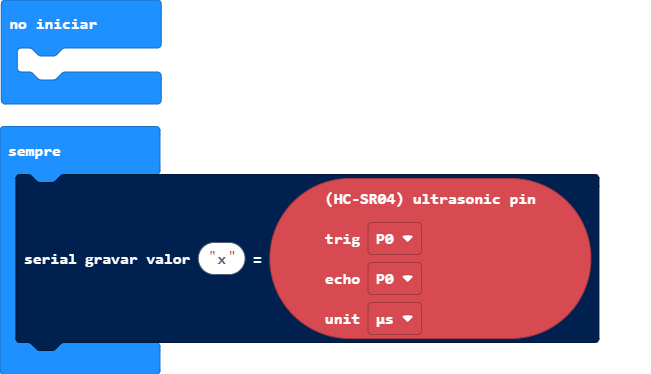
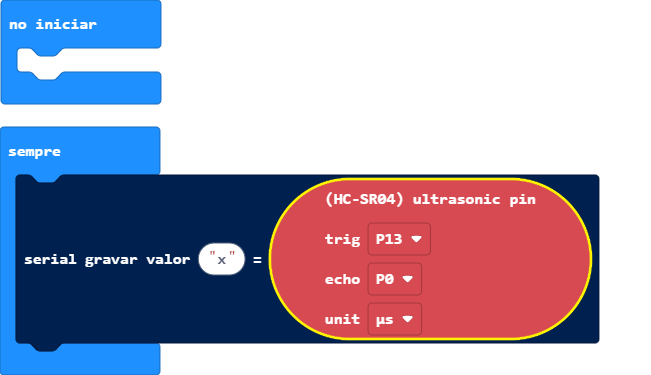
Update main.blocks, main.ts, hackbit.ts

diff --git a/hackbit.ts b/hackbit.ts
@@ -364,13 +364,16 @@ namespace hackbit {
     /**
      * Send a ping and get the echo time (in microseconds) as a result
      * get distance from ultrasonic range sensor (HC-SR04) [μs|cm|inch|]
-     * @param trig tigger pins.P13
-     * @param echo echo pins.P14
+     * @param trig tigger pin
+     * @param echo echo pin
      * @param unit desired conversion unit
      * @param maxCmDistance maximum distance in centimeters (default is 500)
      */
     //% blockId=ultrasonicsonar 
     //% block="(HC-SR04) ultrasonic pin |trig %trig|echo %echo|unit %unit"
+    //% trig.defl=DigitalPin.P13
+    //% echo.defl=DigitalPin.P14
+    //% unit.defl="cm"
     //% name.fieldEditor="gridpicker" 
     //% name.fieldOptions.columns=5
     //% name.fieldOptions.tooltips="false"

diff --git a/main.ts b/main.ts
@@ -1,6 +1,6 @@
 basic.forever(function () {
     serial.writeValue("x", hackbit.us_sonar(
-    DigitalPin.P0,
+    DigitalPin.P13,
     DigitalPin.P0,
     hackbit.PingUnit.MicroSeconds
     ))
